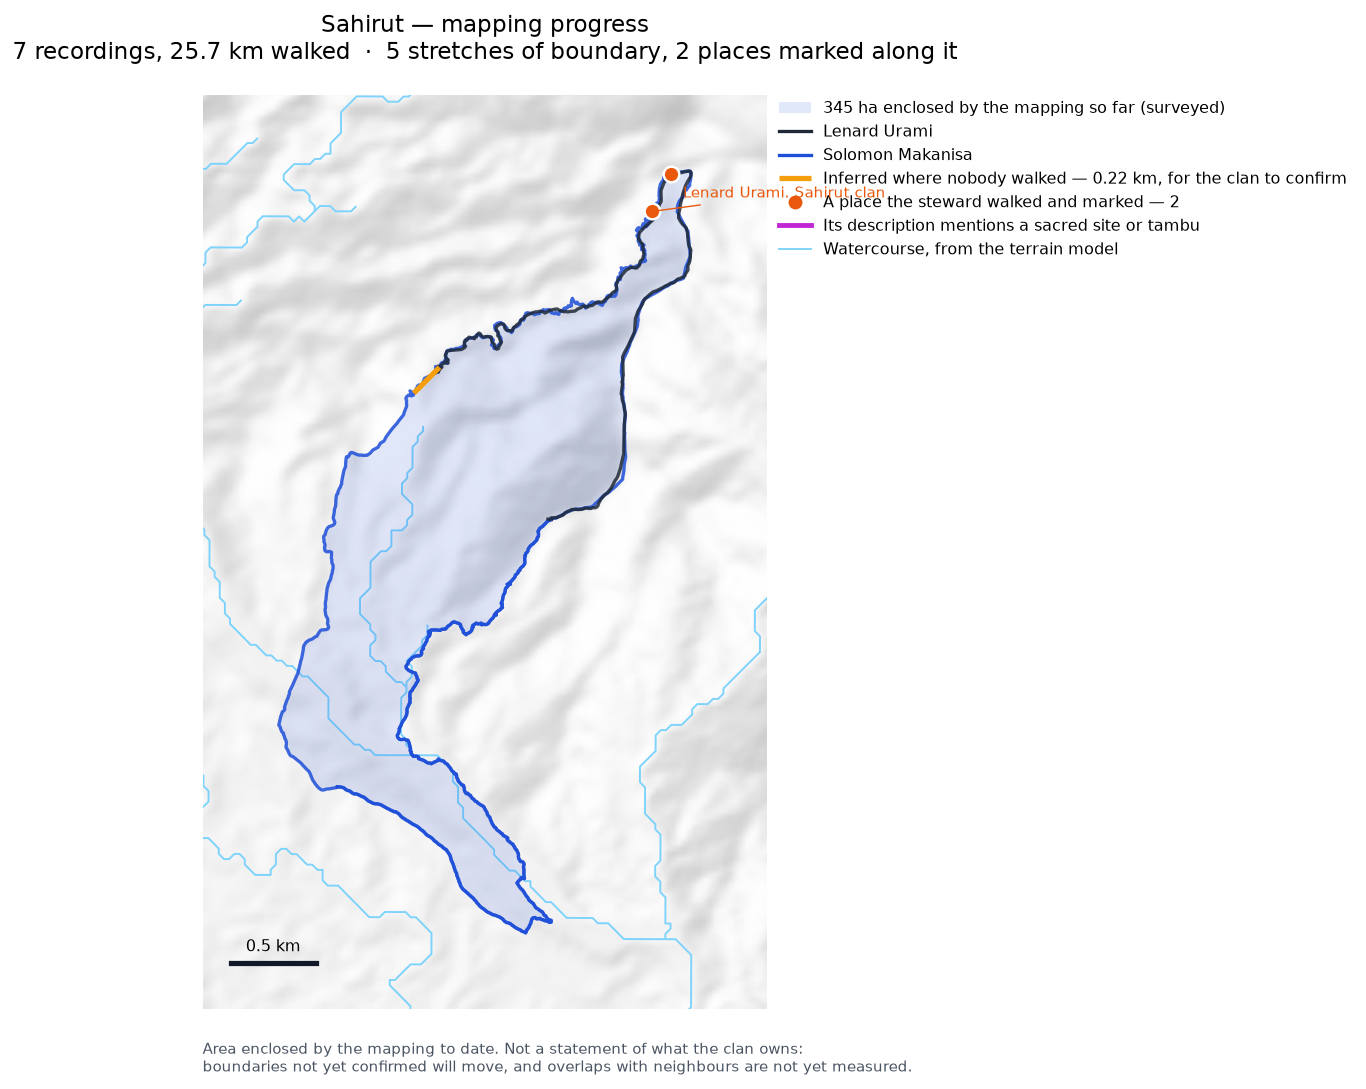
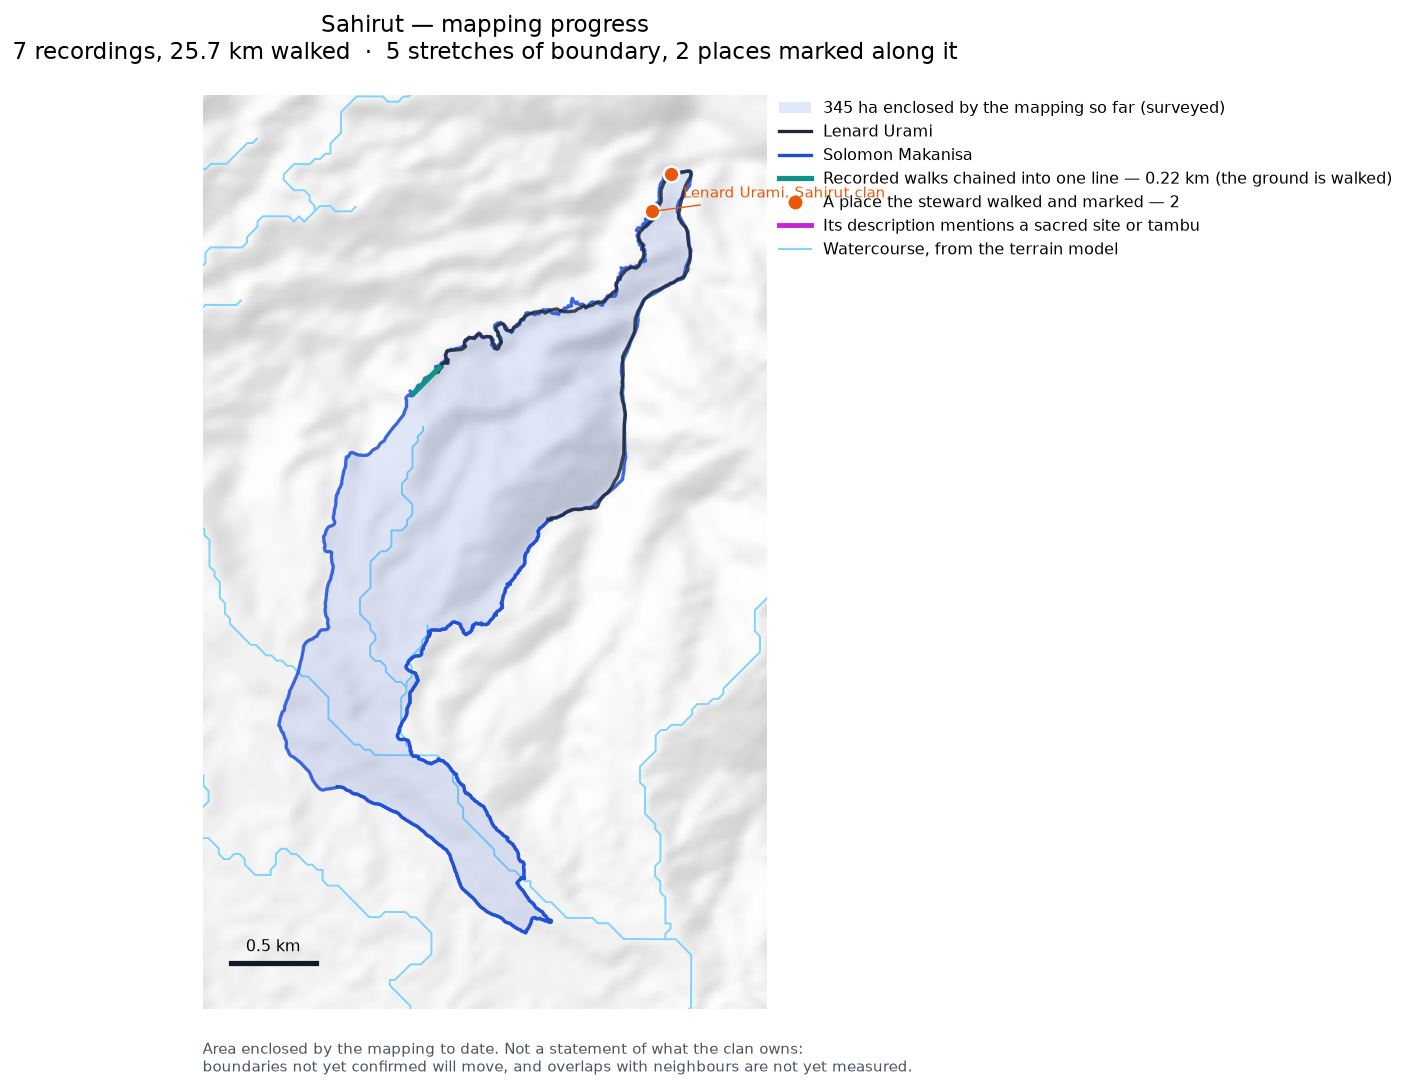
Sahirut: Solomon walked it; the 5 m threshold was wrong
Spotted on the map: blue under the orange. Measured, Solomon Makanisa's
track lies under 88% of the 217 m segment at 10 m, while Lenard Urami's
covers 16%.

Two faults in the test:

  - 5 m is tighter than the stewards' own agreement with each other. A
    pair walking one boundary differ by median 3 m and 12 m at the 90th
    percentile, so a 5 m threshold calls one steward's walk "not walked"
    whenever the other's line is the reference.

  - it compared against the raw tracks while the segment came from the
    smoothed layer, so part of what it measured was the smoothing.

Now 10 m against the smoothed layer, a figure set by what the stewards
achieve rather than one I picked. Sahirut reads 345 ha with nothing
inferred and no gaps: every metre of its boundary is on someone's
footsteps.

Checked it does not flip the others — Riribudeh's 48 m is 66% at 10 m
and stays correctly inferred.

Rule 14 rewritten.

Claude-Session: https://claude.ai/code/session_01K6X75MkuiGQ9rmgDZx45vk

diff --git a/scripts/everything_map.py b/scripts/everything_map.py
@@ -387,6 +387,22 @@ def main(argv: list[str] | None = None) -> int:
         print(f"  (could not build the polygon: {error})")
 
     walked_union = unary_union([r["geometry"] for r in found])
+    # Judge an adopted segment against the smoothed layer it was derived
+    # from, not the raw tracks: the two differ by several metres and the
+    # comparison is then measuring the smoothing.
+    try:
+        import chord_map as _cm
+        _pub = gpd.read_file(dataio.SMOOTHED_DIR / "mca_tracks_smoothed.gpkg",
+                             layer="tracks_smoothed").to_crs(dataio.METRIC_CRS)
+        _pub = dataio.publishable(_pub, quiet=True)
+        _pub["_unit"] = dataio.survey_group(_pub)
+        _mine = _pub[_pub.clan.astype(str).str.lower()
+                     .str.startswith(args.clan.lower())]
+        if not _mine.empty:
+            walked_union = unary_union(_cm.parts_of(
+                _pub[_pub._unit == _mine._unit.iloc[0]]))
+    except Exception:
+        pass
     shapes = unary_union([r["geometry"] for r in found]
                          + ([built["geometry"]] if built else []))
     minx, miny, maxx, maxy = shapes.bounds
@@ -420,7 +436,7 @@ def main(argv: list[str] | None = None) -> int:
         # The test is measurable: how much of the segment has walked
         # line beside it.
         for segment, kind, note in derived_rows:
-            share = (segment.intersection(walked_union.buffer(5)).length
+            share = (segment.intersection(walked_union.buffer(10)).length
                      / segment.length if segment.length else 0)
             if share >= 0.80:
                 axis.plot(*segment.xy, color="#0d9488", lw=3.0, zorder=6)
@@ -541,14 +557,15 @@ def main(argv: list[str] | None = None) -> int:
     def walked_share(segment):
         if not segment.length:
             return 0.0
-        # Five metres, near GPS precision. Thirty metres measures
-        # nearness, not whether the ground was walked: Riribudeh's 48 m
-        # straight join scores 100% at 30 m and 44% at 5 m, and we
-        # established this morning that nobody walked that span. A line
-        # traced along the steward's own track holds up at 5 m — 88%,
-        # 92%, 97% on Gumuyude's three — while a line cut across a gap
-        # does not.
-        return (segment.intersection(walked_union.buffer(5)).length
+        # Ten metres: the spread between two stewards walking the same
+        # boundary. We measured a pair at median 3 m and 90th percentile
+        # 12 m, so a tighter threshold calls one steward's walk "not
+        # walked" because the other's line is the reference — Sahirut's
+        # 217 m scored 36% at 5 m with Solomon Makanisa's track under
+        # 88% of it. Thirty metres goes the other way and measures
+        # nearness rather than coverage: Riribudeh's 48 m straight join
+        # is 100% at 30 m and 66% at 10 m, and nobody walked that span.
+        return (segment.intersection(walked_union.buffer(10)).length
                 / segment.length)
 
     chained = [r for r in derived_rows if walked_share(r[0]) >= 0.80]

diff --git a/docs/MUST_HAVES.md b/docs/MUST_HAVES.md
@@ -80,12 +80,17 @@ Order is the order we agreed them.
     one that goes somewhere is a stretch.
     *Dusi, 11 Oct.*
 
-14. **Chained or inferred is decided at 5 m, not 30.** Thirty metres
-    measures how near the walk passes, not whether the ground was
-    walked: Riribudeh's 48 m straight join scores 100% at 30 m and 44%
-    at 5 m, and nobody walked that span. A line traced along a steward's
-    own track still holds up at 5 m.
-    *Riribudeh, 11 Oct.*
+14. **Chained or inferred is decided at 10 m, against the smoothed
+    layer.** Not 30 m, which measures how near the walk passes rather
+    than whether the ground was walked — Riribudeh's 48 m straight join
+    is 100% at 30 m and nobody walked it. And not 5 m, which is tighter
+    than the stewards' own agreement with each other: a pair walking one
+    boundary differ by median 3 m and 12 m at the 90th percentile, so
+    5 m called Solomon Makanisa's walk "not walked" on Sahirut because
+    Lenard Urami's line was the reference. Judge against the smoothed
+    layer the segment came from, not the raw tracks, or the comparison
+    measures the smoothing.
+    *Riribudeh and Sahirut, 11 Oct.*
 
 15. **Do not move to the next clan until told.** One clan at a time
     means waiting, not queueing. Running ahead through Majanko and Murai
